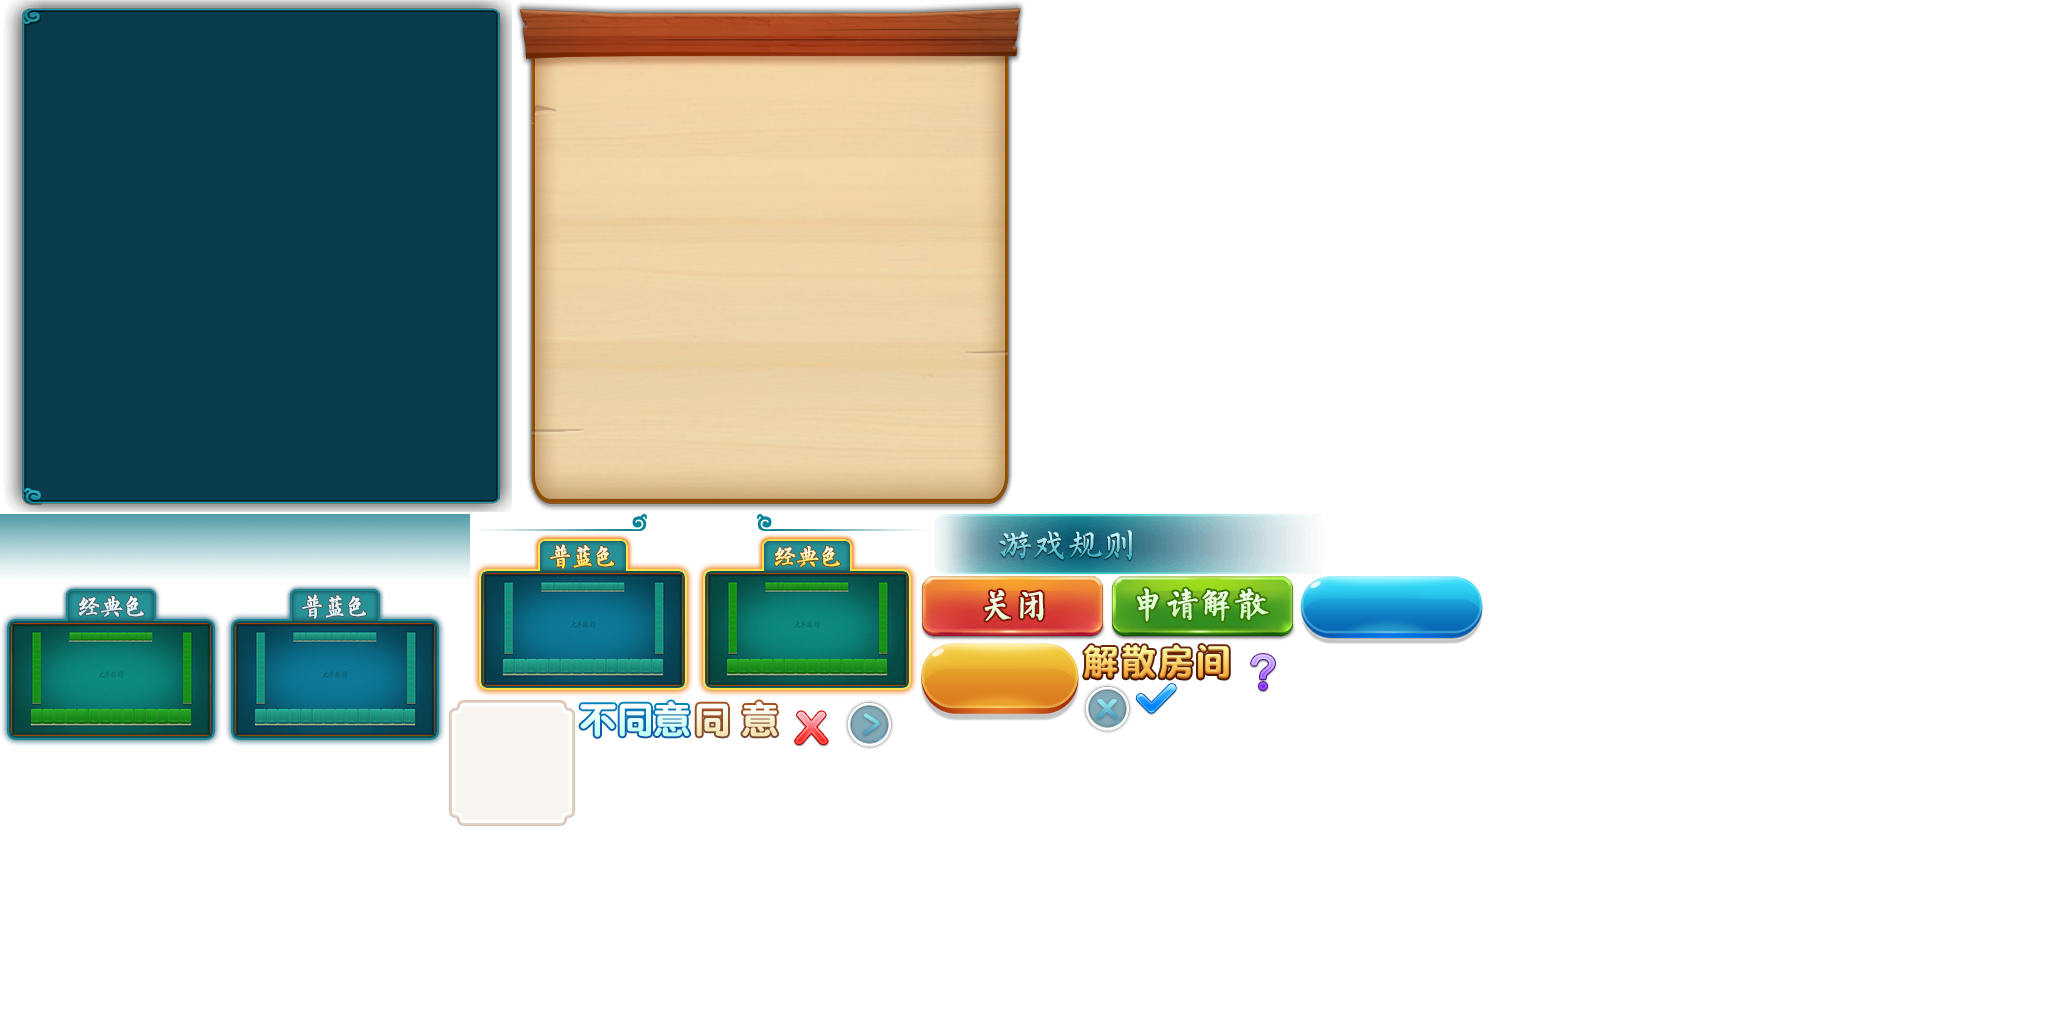
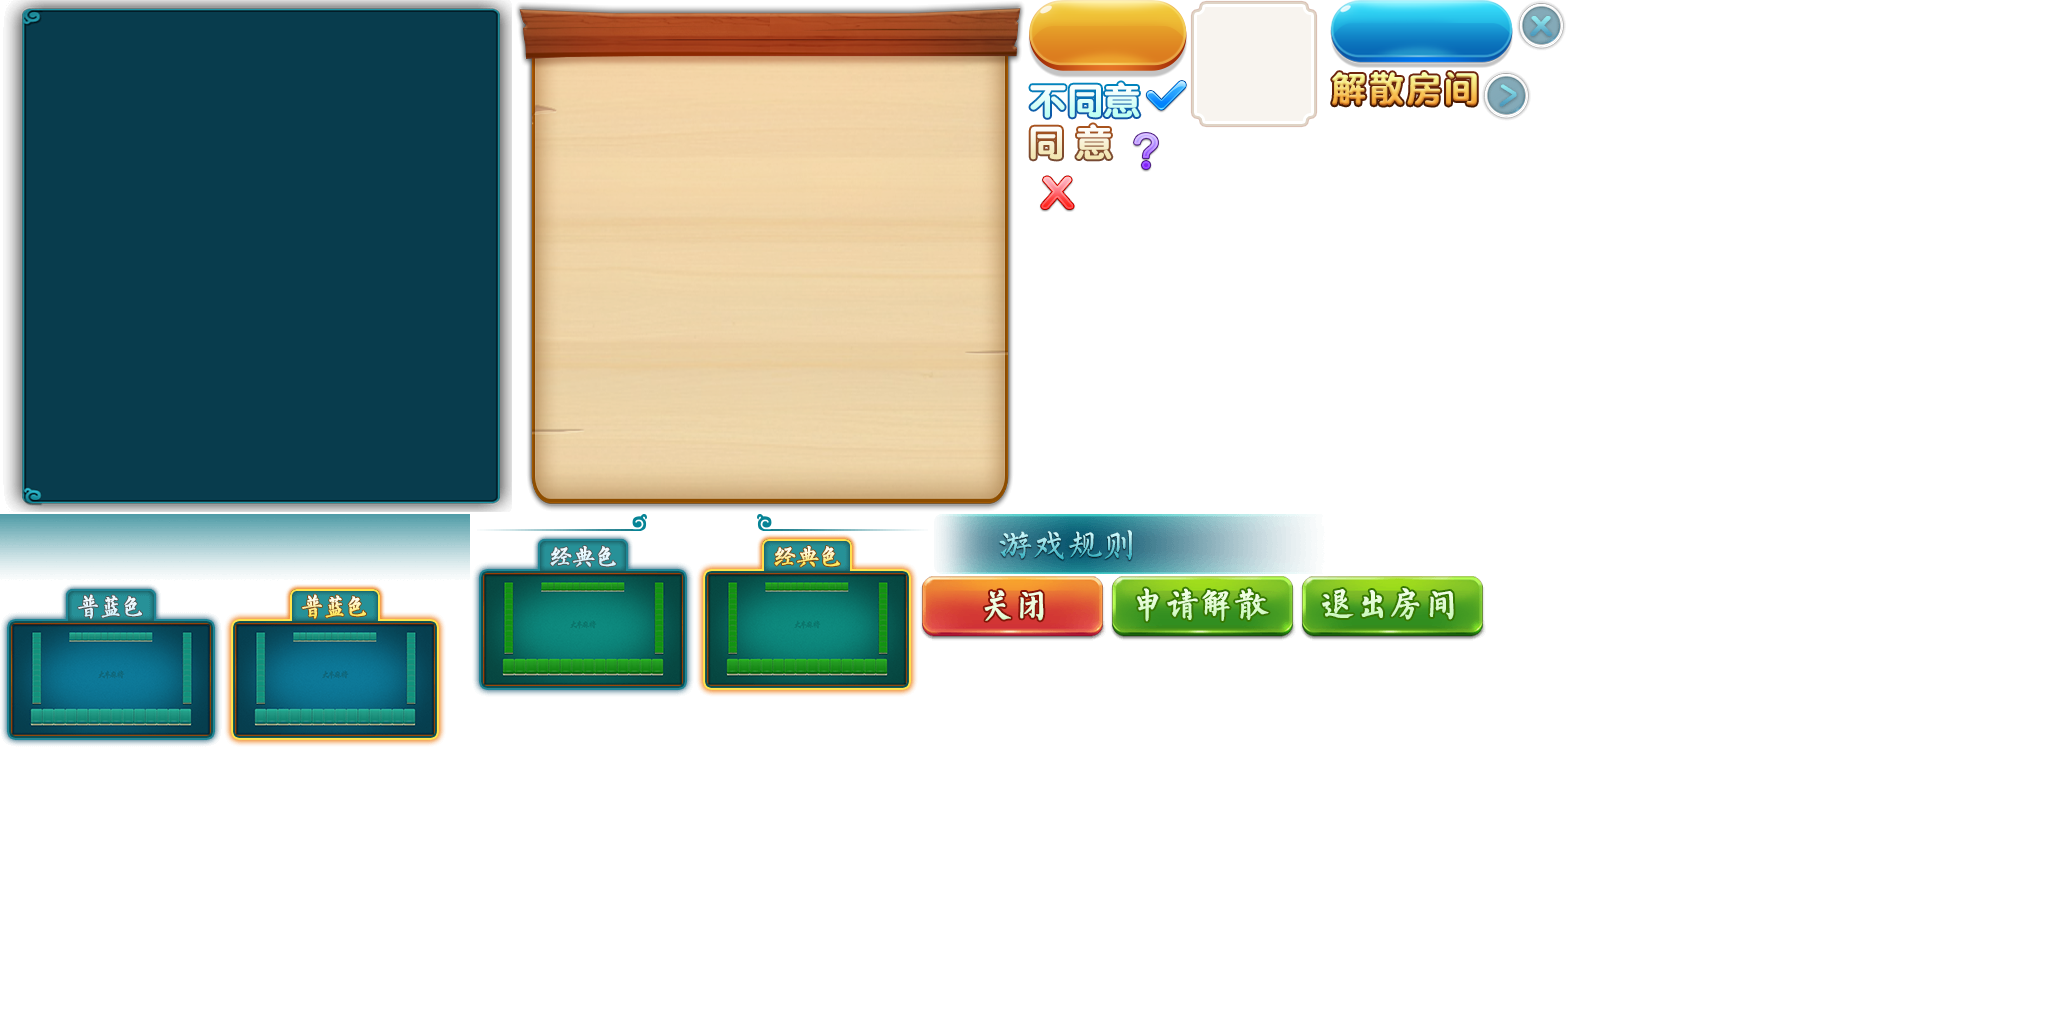
退出房间

diff --git a/assets/Script/modules/lobby/views/roomSetting/RoomSettingView.ts b/assets/Script/modules/lobby/views/roomSetting/RoomSettingView.ts
@@ -4,6 +4,8 @@ import { Dialog, GResLoader } from "../../lcore/LCoreExports";
 export interface RoomInterface {
     switchBg(agree: number): void;
     onDissolveClicked(): void;
+
+    onExitButtonClicked(): void;
 }
 /**
  * 设置界面
@@ -15,13 +17,13 @@ export class RoomSettingView extends cc.Component {
 
     private room: RoomInterface;
 
-    public showView(room: RoomInterface, loader: GResLoader): void {
+    public showView(room: RoomInterface, loader: GResLoader, isOwner: boolean): void {
         this.room = room;
         if (this.view === null || this.view === undefined) {
             // this.room = room;
             loader.fguiAddPackage("lobby/fui_room_other_view/room_other_view");
             this.view = fgui.UIPackage.createObject("room_other_view", "setting").asCom;
-            this.initView();
+            this.initView(isOwner);
         }
         fgui.GRoot.inst.showPopup(this.view);
         this.view.setPosition(0, 0);
@@ -41,7 +43,7 @@ export class RoomSettingView extends cc.Component {
         this.destroy();
     }
 
-    private initView(): void {
+    private initView(isOwner: boolean): void {
 
         const bg = this.view.getChild("bg");
         bg.onClick(this.onCloseClick, this);
@@ -51,6 +53,11 @@ export class RoomSettingView extends cc.Component {
 
         const shutdownBtn = this.view.getChild("shutdownBtn");
         shutdownBtn.onClick(this.onCloseClick, this);
+
+        const exitBtn = this.view.getChild("exitBtn");
+        exitBtn.onClick(this.onExitBtnClick, this);
+
+        this.view.getController("isOwner").selectedIndex = isOwner ? 0 : 1;
 
         const disbandBtn = this.view.getChild("disbandBtn");
         disbandBtn.onClick(this.onDisbandBtnClick, this);
@@ -63,6 +70,11 @@ export class RoomSettingView extends cc.Component {
 
         const arrowBtn = this.view.getChild("arrowBtn");
         arrowBtn.onClick(this.onArrowBtnClick, this);
+    }
+
+    private onExitBtnClick(): void {
+        //
+        this.room.onExitButtonClicked();
     }
 
     private onClassColorBtnClick(): void {

diff --git a/assets/Script/modules/gamea/RoomViewA.ts b/assets/Script/modules/gamea/RoomViewA.ts
@@ -1,4 +1,4 @@
-import { Logger } from "../lobby/lcore/LCoreExports";
+import { Dialog, Logger } from "../lobby/lcore/LCoreExports";
 import { ChatView } from "../lobby/views/chat/ChatExports";
 import { DisBandPlayerInfo, DisbandView } from "../lobby/views/disbandRoom/DisbandViewExports";
 import { RoomSettingView } from "../lobby/views/roomSetting/RoomSettingViewExports";
@@ -53,6 +53,21 @@ export class RoomViewA {
 
     //响应玩家点击左上角的退出按钮以及后退事件
     public onExitButtonClicked(): void {
+
+        if (this.room !== null && this.room.handStartted > 0) {
+
+            Dialog.prompt("牌局已经开始，请申请解散房间");
+
+            return;
+        }
+
+        Dialog.showDialog(`确实要退出房间吗？`, () => {
+
+            this.room.onExitButtonClicked();
+            // tslint:disable-next-line:align
+        }, () => {
+            //
+        });
         // if (roomView.room != null && roomView.room.handStartted > 0) {
         //      prompt.showPrompt("牌局已经开始，请申请解散房间");
 
@@ -196,7 +211,9 @@ export class RoomViewA {
     private onSettingBtnClick(): void {
         // Logger.debug("onSettingBtnClick---------------");
         const settingView = this.component.addComponent(RoomSettingView);
-        settingView.showView(this.room, this.room.getRoomHost().getLobbyModuleLoader());
+
+        const isOwner = this.room.ownerID === this.room.getMyPlayerInfo().userID;
+        settingView.showView(this.room, this.room.getRoomHost().getLobbyModuleLoader(), isOwner);
     }
 
     /**

diff --git a/assets/Script/modules/gameb/RoomView.ts b/assets/Script/modules/gameb/RoomView.ts
@@ -1,4 +1,4 @@
-import { Logger } from "../lobby/lcore/LCoreExports";
+import { Dialog, Logger } from "../lobby/lcore/LCoreExports";
 import { ChatView } from "../lobby/views/chat/ChatExports";
 import { DisBandPlayerInfo, DisbandView } from "../lobby/views/disbandRoom/DisbandViewExports";
 import { RoomSettingView } from "../lobby/views/roomSetting/RoomSettingViewExports";
@@ -77,6 +77,22 @@ export class RoomView {
 
     //响应玩家点击左上角的退出按钮以及后退事件
     public onExitButtonClicked(): void {
+
+        if (this.room !== null && this.room.handStartted > 0) {
+
+            Dialog.prompt("牌局已经开始，请申请解散房间");
+
+            return;
+        }
+
+        Dialog.showDialog(`确实要退出房间吗？`, () => {
+
+            this.room.onExitButtonClicked();
+            // tslint:disable-next-line:align
+        }, () => {
+            //
+        });
+
         // if (roomView.room != null && roomView.room.handStartted > 0) {
         //      prompt.showPrompt("牌局已经开始，请申请解散房间");
 
@@ -310,7 +326,9 @@ export class RoomView {
     private onSettingBtnClick(): void {
         // Logger.debug("onSettingBtnClick---------------");
         const settingView = this.component.addComponent(RoomSettingView);
-        settingView.showView(this.room, this.room.getRoomHost().getLobbyModuleLoader());
+
+        const isOwner = this.room.ownerID === this.room.getMyPlayerInfo().userID;
+        settingView.showView(this.room, this.room.getRoomHost().getLobbyModuleLoader(), isOwner);
     }
 
     /**

diff --git a/assets/Script/modules/gamea/GameModuleA.ts b/assets/Script/modules/gamea/GameModuleA.ts
@@ -345,6 +345,23 @@ export class GameModuleA extends cc.Component implements GameModuleInterface {
             }
 
             if (msg.mt === MsgType.wsData) {
+
+                const data = <proto.pokerface.GameMessage>msg.data;
+                if (data.Ops === proto.pokerface.MessageCode.OPPlayerLeaveRoom) {
+
+                    if (data.Data !== undefined && data.Data !== null) {
+                        const leaveReplyMsg = proto.pokerface.MsgEnterRoomResult.decode(data.Data);
+                        Logger.debug("用户主动离开房间--------------- leaveReplyMsg = ", leaveReplyMsg);
+                        if (leaveReplyMsg.status !== undefined && leaveReplyMsg.status !== null
+                            && leaveReplyMsg.status !== 0) {
+                            Logger.debug("游戏已经开始或者房间正在申请解散，不能退出");
+                        }
+                    } else {
+                        loop = false;
+                        break;
+                    }
+                }
+
                 await this.mRoom.dispatchWebsocketMsg(<proto.pokerface.GameMessage>msg.data);
             } else if (msg.mt === MsgType.wsClosed || msg.mt === MsgType.wsError) {
                 Logger.debug(" websocket connection has broken");

diff --git a/assets/Script/modules/gameb/GameModule.ts b/assets/Script/modules/gameb/GameModule.ts
@@ -349,6 +349,23 @@ export class GameModule extends cc.Component implements GameModuleInterface {
             }
 
             if (msg.mt === MsgType.wsData) {
+
+                const data = <proto.mahjong.GameMessage>msg.data;
+                if (data.Ops === proto.mahjong.MessageCode.OPPlayerLeaveRoom) {
+
+                    if (data.Data !== undefined && data.Data !== null) {
+                        const leaveReplyMsg = proto.mahjong.MsgEnterRoomResult.decode(data.Data);
+                        Logger.debug("用户主动离开房间--------------- leaveReplyMsg = ", leaveReplyMsg);
+                        if (leaveReplyMsg.status !== undefined && leaveReplyMsg.status !== null
+                            && leaveReplyMsg.status !== 0) {
+                            Logger.debug("游戏已经开始或者房间正在申请解散，不能退出");
+                        }
+                    } else {
+                        loop = false;
+                        break;
+                    }
+                }
+
                 await this.mRoom.dispatchWebsocketMsg(<proto.mahjong.GameMessage>msg.data);
             } else if (msg.mt === MsgType.wsClosed || msg.mt === MsgType.wsError) {
                 Logger.debug(" websocket connection has broken");

diff --git a/assets/Script/modules/gamea/RoomA.ts b/assets/Script/modules/gamea/RoomA.ts
@@ -222,6 +222,10 @@ export class RoomA {
         //}
     }
 
+    public onExitButtonClicked(): void {
+        //this.sendMsg(proto.mahjong.MessageCode.OPDisbandRequest);
+    }
+
     //处理玩家申请解散请求
     public onDissolveClicked(): void {
         this.sendMsg(proto.pokerface.MessageCode.OPDisbandRequest);

diff --git a/assets/Script/modules/gameb/Room.ts b/assets/Script/modules/gameb/Room.ts
@@ -228,6 +228,10 @@ export class Room {
         //}
     }
 
+    public onExitButtonClicked(): void {
+        this.sendMsg(proto.mahjong.MessageCode.OPPlayerLeaveRoom);
+    }
+
     //处理玩家申请解散请求
     public onDissolveClicked(): void {
         this.sendMsg(proto.mahjong.MessageCode.OPDisbandRequest);

diff --git a/assets/Script/modules/gameb/RoomInterface.ts b/assets/Script/modules/gameb/RoomInterface.ts
@@ -120,6 +120,8 @@ export interface RoomInterface {
 
     onDissolveClicked(): void;
 
+    onExitButtonClicked(): void;
+
     coWaitSeconds(seconds: number): Promise<void>;
 
     sendDisbandAgree(agree: boolean): void;

diff --git a/assets/Script/modules/gamea/RoomInterfaceA.ts b/assets/Script/modules/gamea/RoomInterfaceA.ts
@@ -90,6 +90,8 @@ export interface RoomInterfaceA {
 
     onDissolveClicked(): void;
 
+    onExitButtonClicked(): void;
+
     coWaitSeconds(seconds: number): Promise<void>;
 
     sendDisbandAgree(agree: boolean): void;
